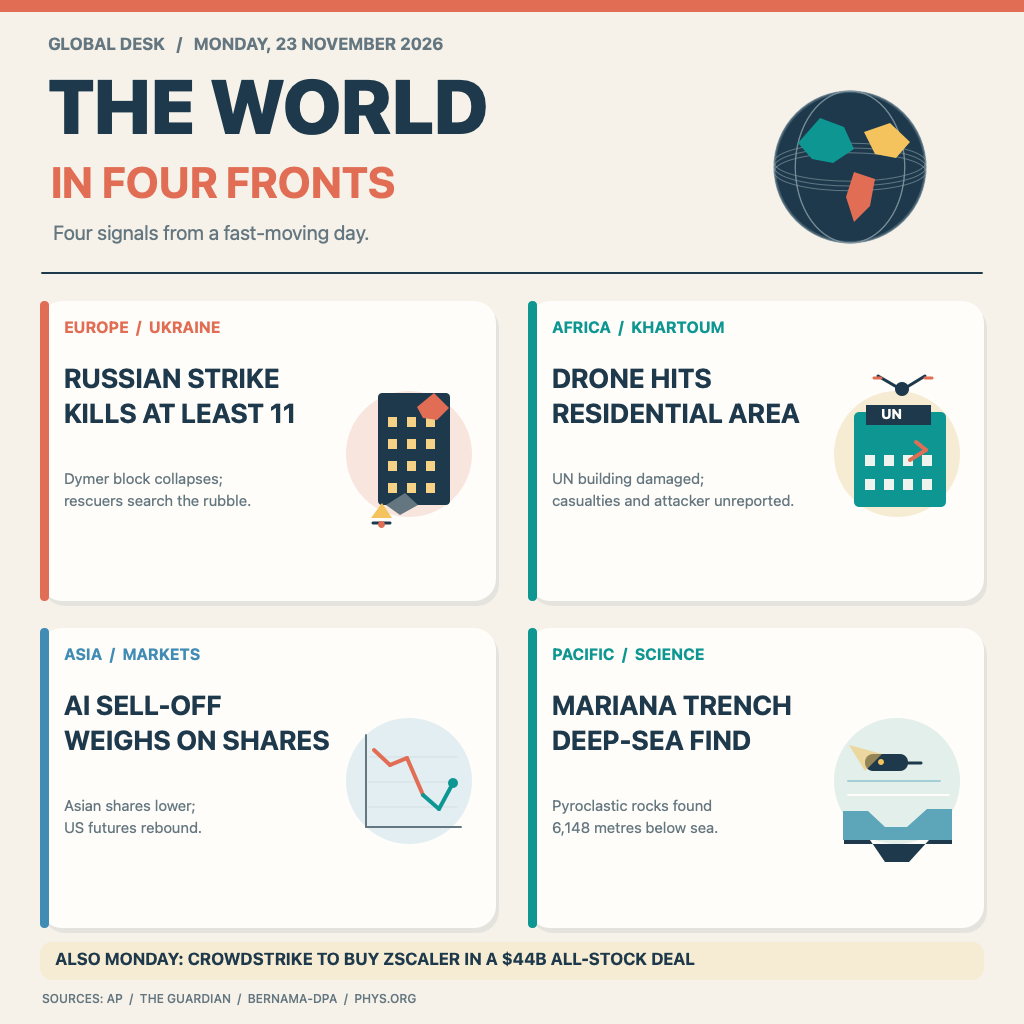
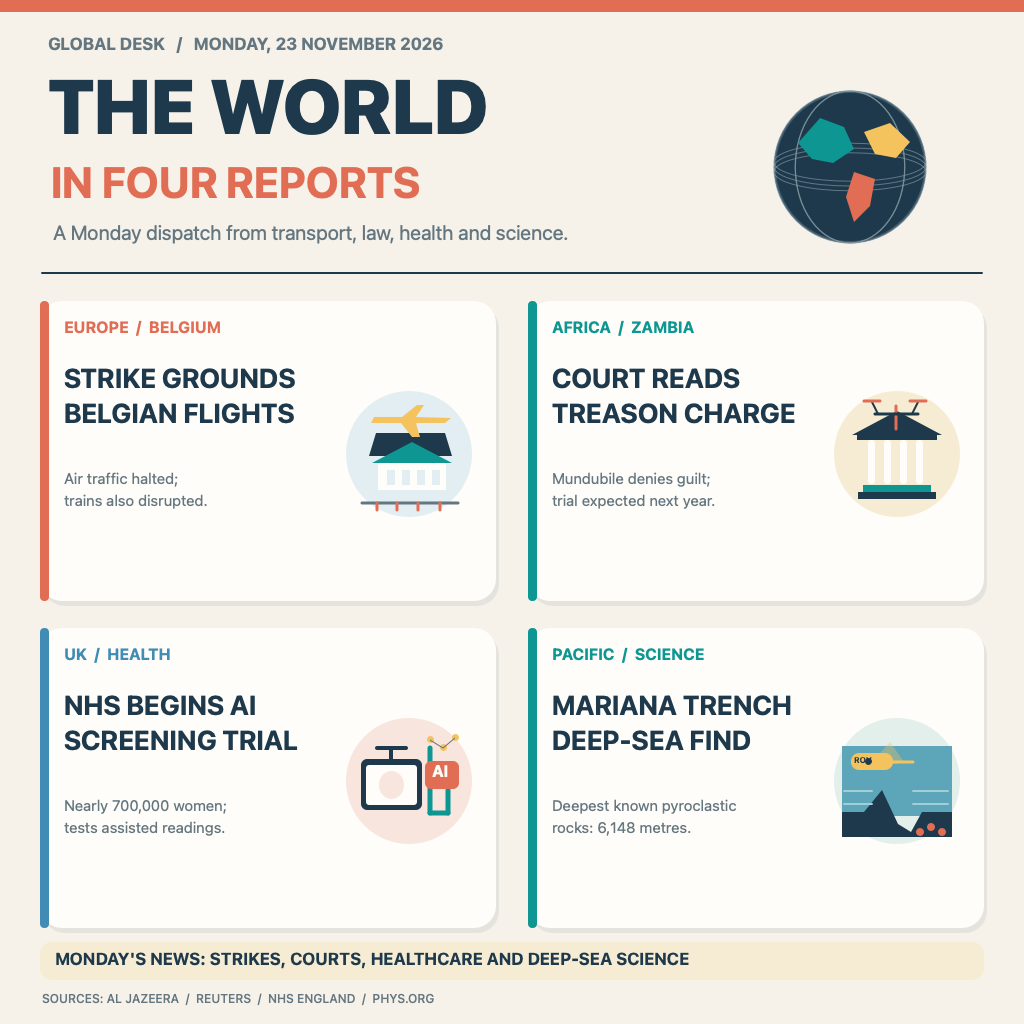
Create second illustrated news edition

diff --git a/artwork.swift b/artwork.swift
@@ -156,94 +156,102 @@ func cardHeading(_ label: String, _ first: String, _ second: String,
     }
 }
 
-func drawUkraineScene(x: CGFloat, y: CGFloat) {
-    circle(CGRect(x: x + 306, y: y + 84, width: 126, height: 126), paleRed)
-    rounded(CGRect(x: x + 338, y: y + 96, width: 72, height: 112),
-            radius: 4, ink)
-    for row in 0..<4 {
-        for column in 0..<3 {
-            rectangle(CGRect(x: x + 348 + CGFloat(column) * 19,
-                             y: y + 108 + CGFloat(row) * 22,
-                             width: 9, height: 10), color(0xf3c974))
-        }
-    }
-    polygon([
-        (x + 377, y + 194), (x + 394, y + 208), (x + 409, y + 193),
-        (x + 397, y + 181), (x + 383, y + 183)
-    ], coral)
-    polygon([
-        (x + 346, y + 96), (x + 360, y + 86), (x + 378, y + 96),
-        (x + 365, y + 108)
-    ], muted)
-    polygon([
-        (x + 331, y + 83), (x + 352, y + 83), (x + 342, y + 98)
-    ], gold)
-    line(x + 333, y + 78, x + 350, y + 78, ink, width: 3)
-    circle(CGRect(x: x + 338, y: y + 73, width: 7, height: 7), coral)
-}
-
-func drawSudanScene(x: CGFloat, y: CGFloat) {
-    circle(CGRect(x: x + 306, y: y + 84, width: 126, height: 126), paleGold)
-    rounded(CGRect(x: x + 326, y: y + 94, width: 92, height: 95),
-            radius: 5, teal)
-    rectangle(CGRect(x: x + 338, y: y + 176, width: 65, height: 20), ink)
-    text("UN", x: x + 353, y: y + 179, size: 14, fill: white, weight: .bold)
-    for row in 0..<2 {
-        for column in 0..<4 {
-            rectangle(CGRect(x: x + 337 + CGFloat(column) * 19,
-                             y: y + 111 + CGFloat(row) * 24,
-                             width: 10, height: 11), color(0xeaf0e8))
-        }
-    }
-    line(x + 382, y + 141, x + 398, y + 151, coral, width: 4)
-    line(x + 398, y + 151, x + 388, y + 159, coral, width: 4)
-    circle(CGRect(x: x + 367, y: y + 205, width: 14, height: 14), ink)
-    line(x + 374, y + 211, x + 350, y + 225, ink, width: 3)
-    line(x + 374, y + 211, x + 397, y + 225, ink, width: 3)
-    line(x + 353, y + 223, x + 346, y + 223, coral, width: 3)
-    line(x + 397, y + 223, x + 404, y + 223, coral, width: 3)
-}
-
-func drawMarketScene(x: CGFloat, y: CGFloat) {
+func drawBelgiumScene(x: CGFloat, y: CGFloat) {
     circle(CGRect(x: x + 306, y: y + 84, width: 126, height: 126), paleBlue)
-    line(x + 326, y + 101, x + 326, y + 193, muted, width: 2)
-    line(x + 326, y + 101, x + 421, y + 101, muted, width: 2)
-    for offset in [0, 1, 2] {
-        let level = y + 121 + CGFloat(offset) * 25
-        line(x + 329, level, x + 417, level, color(0xc9d8de), width: 1)
+    polygon([
+        (x + 329, y + 145), (x + 412, y + 145), (x + 405, y + 168),
+        (x + 336, y + 168)
+    ], ink)
+    rectangle(CGRect(x: x + 338, y: y + 111, width: 68, height: 27), white)
+    polygon([
+        (x + 332, y + 138), (x + 372, y + 159), (x + 412, y + 138)
+    ], teal)
+    for column in 0..<4 {
+        rectangle(CGRect(x: x + 347 + CGFloat(column) * 15,
+                         y: y + 116, width: 8, height: 15), paleBlue)
     }
-    let points: [(CGFloat, CGFloat)] = [
-        (x + 334, y + 178), (x + 350, y + 163), (x + 367, y + 170),
-        (x + 383, y + 133), (x + 399, y + 119), (x + 413, y + 145)
-    ]
-    for index in 0..<(points.count - 1) {
-        line(points[index].0, points[index].1, points[index + 1].0,
-             points[index + 1].1, index < 3 ? coral : teal, width: 4)
-    }
-    circle(CGRect(x: x + 408, y: y + 140, width: 10, height: 10), teal)
+    line(x + 322, y + 98, x + 418, y + 98, muted, width: 3)
+    line(x + 337, y + 91, x + 337, y + 98, coral, width: 3)
+    line(x + 357, y + 91, x + 357, y + 98, coral, width: 3)
+    line(x + 378, y + 91, x + 378, y + 98, coral, width: 3)
+    line(x + 400, y + 91, x + 400, y + 98, coral, width: 3)
+    polygon([
+        (x + 331, y + 178), (x + 361, y + 178), (x + 372, y + 164),
+        (x + 380, y + 164), (x + 376, y + 178), (x + 405, y + 178),
+        (x + 411, y + 183), (x + 376, y + 184), (x + 384, y + 196),
+        (x + 377, y + 196), (x + 362, y + 184), (x + 334, y + 184)
+    ], gold)
 }
 
-func drawScienceScene(x: CGFloat, y: CGFloat) {
-    circle(CGRect(x: x + 306, y: y + 84, width: 126, height: 126), paleTeal)
+func drawZambiaScene(x: CGFloat, y: CGFloat) {
+    circle(CGRect(x: x + 306, y: y + 84, width: 126, height: 126), paleGold)
     polygon([
-        (x + 315, y + 117), (x + 340, y + 117), (x + 357, y + 101),
-        (x + 379, y + 101), (x + 399, y + 119), (x + 424, y + 119),
-        (x + 424, y + 88), (x + 315, y + 88)
-    ], color(0x4d95aa))
-    polygon([
-        (x + 316, y + 88), (x + 342, y + 88), (x + 357, y + 66),
-        (x + 381, y + 66), (x + 401, y + 88), (x + 424, y + 88),
-        (x + 424, y + 84), (x + 316, y + 84)
+        (x + 324, y + 166), (x + 369, y + 190), (x + 414, y + 166)
     ], ink)
-    line(x + 320, y + 133, x + 421, y + 133, white, width: 2)
-    line(x + 320, y + 147, x + 412, y + 147, color(0x91c5cb), width: 2)
-    rounded(CGRect(x: x + 337, y: y + 157, width: 43, height: 17),
-            radius: 8, ink)
-    circle(CGRect(x: x + 350, y: y + 163, width: 6, height: 6), gold)
-    line(x + 379, y + 165, x + 393, y + 165, ink, width: 3)
+    rectangle(CGRect(x: x + 330, y: y + 102, width: 78, height: 7), ink)
+    rectangle(CGRect(x: x + 335, y: y + 109, width: 68, height: 7), teal)
+    for column in 0..<4 {
+        let columnX = x + 340 + CGFloat(column) * 16
+        rounded(CGRect(x: columnX, y: y + 117, width: 7, height: 44),
+                radius: 3, white)
+    }
+    rectangle(CGRect(x: x + 329, y: y + 161, width: 80, height: 7), ink)
+    line(x + 368, y + 172, x + 368, y + 195, coral, width: 3)
+    line(x + 347, y + 187, x + 390, y + 187, ink, width: 3)
+    line(x + 350, y + 187, x + 344, y + 199, ink, width: 2)
+    line(x + 384, y + 187, x + 390, y + 199, ink, width: 2)
+    line(x + 336, y + 200, x + 352, y + 200, coral, width: 3)
+    line(x + 382, y + 200, x + 398, y + 200, coral, width: 3)
+}
+
+func drawHealthScene(x: CGFloat, y: CGFloat) {
+    circle(CGRect(x: x + 306, y: y + 84, width: 126, height: 126), paleRed)
+    rounded(CGRect(x: x + 321, y: y + 118, width: 61, height: 51),
+            radius: 6, ink)
+    rounded(CGRect(x: x + 326, y: y + 123, width: 51, height: 40),
+            radius: 3, white)
+    circle(CGRect(x: x + 339, y: y + 129, width: 25, height: 28), paleRed)
+    line(x + 351, y + 169, x + 351, y + 179, ink, width: 4)
+    line(x + 337, y + 180, x + 366, y + 180, ink, width: 4)
+    line(x + 390, y + 115, x + 390, y + 180, teal, width: 5)
+    line(x + 390, y + 115, x + 408, y + 115, teal, width: 5)
+    line(x + 408, y + 115, x + 408, y + 138, teal, width: 5)
+    rounded(CGRect(x: x + 385, y: y + 139, width: 34, height: 28),
+            radius: 6, coral)
+    text("AI", x: x + 392, y: y + 147, size: 16, fill: white, weight: .bold)
+    circle(CGRect(x: x + 387, y: y + 185, width: 7, height: 7), gold)
+    circle(CGRect(x: x + 400, y: y + 177, width: 7, height: 7), gold)
+    circle(CGRect(x: x + 412, y: y + 187, width: 7, height: 7), gold)
+    line(x + 390, y + 188, x + 403, y + 180, muted, width: 1)
+    line(x + 403, y + 180, x + 415, y + 190, muted, width: 1)
+}
+
+func drawMarianaScene(x: CGFloat, y: CGFloat) {
+    circle(CGRect(x: x + 306, y: y + 84, width: 126, height: 126), paleTeal)
+    rectangle(CGRect(x: x + 314, y: y + 112, width: 110, height: 70),
+              color(0x4d95aa))
     polygon([
-        (x + 337, y + 157), (x + 321, y + 183), (x + 354, y + 174)
-    ], color(0xf0b84c, alpha: 0.55))
+        (x + 314, y + 116), (x + 336, y + 116), (x + 354, y + 138),
+        (x + 370, y + 104), (x + 383, y + 96), (x + 394, y + 116),
+        (x + 424, y + 116), (x + 424, y + 91), (x + 314, y + 91)
+    ], ink)
+    line(x + 316, y + 124, x + 344, y + 124, color(0x91c5cb), width: 2)
+    line(x + 385, y + 124, x + 420, y + 124, color(0x91c5cb), width: 2)
+    line(x + 316, y + 137, x + 344, y + 137, color(0x91c5cb), width: 2)
+    line(x + 385, y + 137, x + 420, y + 137, color(0x91c5cb), width: 2)
+    rounded(CGRect(x: x + 323, y: y + 158, width: 42, height: 17),
+            radius: 8, gold)
+    circle(CGRect(x: x + 337, y: y + 163, width: 7, height: 7), ink)
+    text("ROV", x: x + 326, y: y + 163, size: 8, fill: ink, weight: .bold)
+    line(x + 365, y + 166, x + 385, y + 166, gold, width: 3)
+    polygon([
+        (x + 337, y + 158), (x + 362, y + 186), (x + 376, y + 166)
+    ], color(0xf0b84c, alpha: 0.35))
+    for offset in [0, 1, 2] {
+        circle(CGRect(x: x + 388 + CGFloat(offset) * 11,
+                      y: y + 92 + CGFloat(offset % 2) * 5,
+                      width: 8, height: 8), coral)
+    }
 }
 
 func drawCard(x: CGFloat, y: CGFloat, label: String, first: String,
@@ -253,13 +261,13 @@ func drawCard(x: CGFloat, y: CGFloat, label: String, first: String,
     cardHeading(label, first, second, detail1, detail2, x: x, y: y, accent: accent)
     switch scene {
     case 0:
-        drawUkraineScene(x: x, y: y)
+        drawBelgiumScene(x: x, y: y)
     case 1:
-        drawSudanScene(x: x, y: y)
+        drawZambiaScene(x: x, y: y)
     case 2:
-        drawMarketScene(x: x, y: y)
+        drawHealthScene(x: x, y: y)
     default:
-        drawScienceScene(x: x, y: y)
+        drawMarianaScene(x: x, y: y)
     }
 }
 
@@ -268,37 +276,38 @@ rectangle(CGRect(x: 0, y: 1012, width: width, height: 12), coral)
 text("GLOBAL DESK   /   MONDAY, 23 NOVEMBER 2026",
      x: 48, y: 970, size: 17, fill: muted, weight: .bold)
 text("THE WORLD", x: 48, y: 874, size: 76, fill: ink, weight: .heavy)
-text("IN FOUR FRONTS", x: 51, y: 817, size: 43, fill: coral, weight: .bold)
-text("Four signals from a fast-moving day.", x: 53, y: 779,
+text("IN FOUR REPORTS", x: 51, y: 817, size: 43, fill: coral, weight: .bold)
+text("A Monday dispatch from transport, law, health and science.",
+     x: 53, y: 779,
      size: 20, fill: muted)
 drawGlobe(cx: 850, cy: 857, radius: 76)
 line(42, 751, 982, 751, ink, width: 2)
 
-drawCard(x: 40, y: 423, label: "EUROPE  /  UKRAINE",
-         first: "RUSSIAN STRIKE", second: "KILLS AT LEAST 11",
-         detail1: "Dymer block collapses;",
-         detail2: "rescuers search the rubble.",
+drawCard(x: 40, y: 423, label: "EUROPE  /  BELGIUM",
+         first: "STRIKE GROUNDS", second: "BELGIAN FLIGHTS",
+         detail1: "Air traffic halted;",
+         detail2: "trains also disrupted.",
          accent: coral, scene: 0)
-drawCard(x: 528, y: 423, label: "AFRICA  /  KHARTOUM",
-         first: "DRONE HITS", second: "RESIDENTIAL AREA",
-         detail1: "UN building damaged;",
-         detail2: "casualties and attacker unreported.",
+drawCard(x: 528, y: 423, label: "AFRICA  /  ZAMBIA",
+         first: "COURT READS", second: "TREASON CHARGE",
+         detail1: "Mundubile denies guilt;",
+         detail2: "trial expected next year.",
          accent: teal, scene: 1)
-drawCard(x: 40, y: 96, label: "ASIA  /  MARKETS",
-         first: "AI SELL-OFF", second: "WEIGHS ON SHARES",
-         detail1: "Asian shares lower;",
-         detail2: "US futures rebound.",
+drawCard(x: 40, y: 96, label: "UK  /  HEALTH",
+         first: "NHS BEGINS AI", second: "SCREENING TRIAL",
+         detail1: "Nearly 700,000 women;",
+         detail2: "tests assisted readings.",
          accent: blue, scene: 2)
 drawCard(x: 528, y: 96, label: "PACIFIC  /  SCIENCE",
          first: "MARIANA TRENCH", second: "DEEP-SEA FIND",
-         detail1: "Pyroclastic rocks found",
-         detail2: "6,148 metres below sea.",
+         detail1: "Deepest known pyroclastic",
+         detail2: "rocks: 6,148 metres.",
          accent: teal, scene: 3)
 
 rounded(CGRect(x: 40, y: 44, width: 944, height: 38), radius: 12, paleGold)
-text("ALSO MONDAY: CROWDSTRIKE TO BUY ZSCALER IN A $44B ALL-STOCK DEAL",
+text("MONDAY'S NEWS: STRIKES, COURTS, HEALTHCARE AND DEEP-SEA SCIENCE",
      x: 55, y: 55, size: 17, fill: ink, weight: .bold)
-text("SOURCES: AP  /  THE GUARDIAN  /  BERNAMA-DPA  /  PHYS.ORG",
+text("SOURCES: AL JAZEERA  /  REUTERS  /  NHS ENGLAND  /  PHYS.ORG",
      x: 42, y: 18, size: 12, fill: muted, weight: .medium)
 
 NSGraphicsContext.restoreGraphicsState()

diff --git a/README.md b/README.md
@@ -1,35 +1,36 @@
-# The World in Four Fronts
+# The World in Four Reports
 
 [![make.fun competition](https://make.fun/badge/news-image-20261123.svg)](https://make.fun/c/news-image-20261123)
 [![Rank](https://make.fun/badge/news-image-20261123/Frankubah1001/news-image-20261123-entry/rank.svg)](https://make.fun/c/news-image-20261123)
 [![Reward](https://make.fun/badge/news-image-20261123/Frankubah1001/news-image-20261123-entry/reward.svg)](https://make.fun/c/news-image-20261123)
 
-An original illustrated front page for Monday, 23 November 2026. It brings
-together four reports across conflict, markets and science, with the claims
-attributed to their sources and no reused news photographs.
+An original illustrated front page for Monday, 23 November 2026. It highlights
+four developments from Belgium, Zambia, the United Kingdom and the Pacific,
+using drawn scenes rather than reused news photographs.
 
 ## What is shown
 
-- **Ukraine:** The Guardian reports at least 11 killed in the strike on an
-  apartment building in Dymer and a continuing rescue search.
-- **Sudan:** The UN reported a drone attack on a residential area in Khartoum
-  and damage to a UN building. The report did not identify an attacker or
-  provide casualty details.
-- **Markets:** The Associated Press reports Asian shares mostly lower amid an
-  AI-stock sell-off, while US futures rose.
-- **Science:** A remotely operated vehicle's Mariana Trench samples included
-  the deepest documented underwater pyroclastic rocks, found at 6,148 metres.
-- **Also Monday:** The Associated Press reports CrowdStrike's planned $44
-  billion all-stock acquisition of Zscaler.
+- **Belgium:** A nationwide strike disrupted transport and grounded flights on
+  Monday. The unions were protesting government austerity measures.
+- **Zambia:** Reuters reports opposition leader Brian Mundubile was charged
+  with plotting to overthrow the government. He denies guilt; the trial is
+  expected next year.
+- **United Kingdom:** The NHS began enrolling women in a three-year trial of
+  AI-assisted mammogram reading. The study will assess the approach; it is not
+  evidence that the tools are already proven to improve screening.
+- **Mariana Trench:** A report published on 23 November describes ROV-collected
+  samples of the deepest documented underwater pyroclastic rocks, found at
+  6,148 metres.
 
 ## Sources
 
-- [The Guardian: Ukraine war briefing, 23 November 2026](https://www.theguardian.com/world/2026/nov/23/ukraine-war-briefing-race-to-find-survivors-after-russian-attack-on-apartment-block-kills-at-least-nine)
-- [Bernama / dpa: UN reports attack in Khartoum, 23 November 2026](https://www.bernama.com/en/news.php?id=2638032)
-- [Associated Press: Markets and CrowdStrike-Zscaler deal](https://apnews.com/article/stocks-markets-rates-technology-ai-anthropic-49ba1beba78fa4ed2bd5898029f79c91)
+- [Al Jazeera: Anti-austerity strike disrupts transport across Belgium, 23 November 2026](https://www.aljazeera.com/news/2026/11/23/anti-austerity-strike-spurs-transport-chaos-across-belgium)
+- [Reuters via Yahoo: Zambia opposition leader charged with attempting to overthrow government, 23 November 2026](https://www.yahoo.com/news/world/articles/zambia-opposition-leader-charged-attempting-122732673.html)
+- [NHS England: First women join AI-assisted breast screening trial](https://www.england.nhs.uk/2026/11/first-women-join-world-leading-ai-assisted-nhs-breast-screening-trial/)
 - [Phys.org, provided by Frontiers: Mariana Trench research, 23 November 2026](https://phys.org/news/2026-11-robot-submarine-exploring-world-deepest.html)
 
-All artwork is drawn by `artwork.swift`; no photographs or logos are embedded.
+All artwork is drawn by `artwork.swift`; no photographs or third-party logos are
+embedded.
 
 ## Build and run
 
